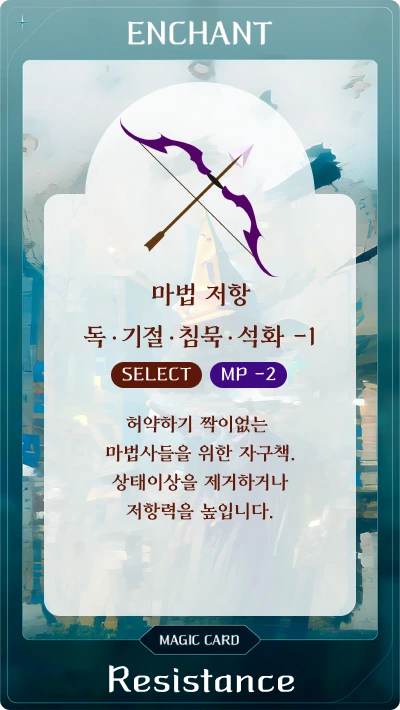
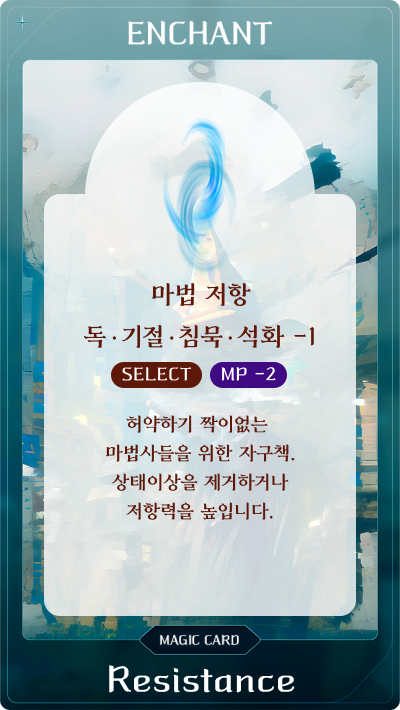
update. 스탯 아이콘 수정(유저 피드백)

diff --git a/src/Components/ingameComponents/PlayerField/MyProfile.tsx b/src/Components/ingameComponents/PlayerField/MyProfile.tsx
@@ -18,6 +18,7 @@ import {
   MyStatIcon,
   StatIcon,
   StatCnt,
+  StatIconBox,
   CoverIcon,
   CoverIconMine,
 } from "../InGameStyled/InGameStyled";
@@ -61,9 +62,13 @@ const MyProfile = () => {
             </div>
             <MyStatBox>
               <div className="profile__stats">
-                <span className="profile__title">HP {thisPlayer.health}</span>
+                {thisPlayer.health > 0 ? (
+                  <span className="profile__title">HP{thisPlayer.health}</span>
+                ) : (
+                  <span className="profile__title">HP 0</span>
+                )}
                 {thisPlayer.health >= 20 ? (
-                  <MyStatBar stat={true} point={21.35}>
+                  <MyStatBar stat={true} point={16.35}>
                     <div className="stat__full">
                       <div className="stat__now"></div>
                     </div>
@@ -71,7 +76,7 @@ const MyProfile = () => {
                 ) : (
                   <MyStatBar
                     stat={true}
-                    point={(thisPlayer.health / 20) * 21.35}
+                    point={(thisPlayer.health / 20) * 16.35}
                   >
                     <div className="stat__full">
                       <div className="stat__now"></div>
@@ -80,7 +85,12 @@ const MyProfile = () => {
                 )}
               </div>
               <div className="profile__stats">
-                <span className="profile__title">MP {thisPlayer.mana}</span>
+                {thisPlayer.mana > 0 ? (
+                  <span className="profile__title">MP{thisPlayer.mana}</span>
+                ) : (
+                  <span className="profile__title">MP 0</span>
+                )}
+
                 {thisPlayer.mana >= 20 ? (
                   <MyStatBar stat={false} point={21.35}>
                     <div className="stat__full">
@@ -104,88 +114,164 @@ const MyProfile = () => {
             {thisPlayer.sleepDuration !== 0 && (
               <MyStatIcon>
                 <StatIcon
+                  value={thisPlayer.sleepDuration}
                   stat="sleepDuration"
-                  size={4.6875}
+                  size={3.6875}
                   mouseOver={mouseOver}
                   onMouseOver={MouseOverFunc}
                   onMouseLeave={MouseLeaveFunc}
                 >
-                  {mouseOver && <CoverIconMine>수면</CoverIconMine>}
+                  {thisPlayer.sleepDuration > 0 ? (
+                    <>{mouseOver && <CoverIconMine>수면</CoverIconMine>}</>
+                  ) : (
+                    <>
+                      {mouseOver && (
+                        <CoverIconMine>
+                          수면
+                          <br />
+                          저항
+                        </CoverIconMine>
+                      )}
+                    </>
+                  )}
                 </StatIcon>
-                <StatCnt size={2.083}>{thisPlayer.sleepDuration}</StatCnt>
+                <StatCnt size={1.083}>
+                  {Math.abs(thisPlayer.sleepDuration)}
+                </StatCnt>
               </MyStatIcon>
             )}
 
             {thisPlayer.mutedDuration !== 0 && (
               <MyStatIcon>
                 <StatIcon
+                  value={thisPlayer.mutedDuration}
                   stat="mutedDuration"
-                  size={4.6875}
+                  size={3.6875}
                   mouseOver={mouseOver}
                   onMouseOver={MouseOverFunc}
                   onMouseLeave={MouseLeaveFunc}
                 >
-                  {mouseOver && <CoverIconMine>침묵</CoverIconMine>}
+                  {thisPlayer.mutedDuration > 0 ? (
+                    <>{mouseOver && <CoverIconMine>침묵</CoverIconMine>}</>
+                  ) : (
+                    <>
+                      {mouseOver && (
+                        <CoverIconMine>
+                          침묵
+                          <br />
+                          저항
+                        </CoverIconMine>
+                      )}
+                    </>
+                  )}
                 </StatIcon>
-                <StatCnt size={2.083}>{thisPlayer.mutedDuration}</StatCnt>
+                <StatCnt size={1.083}>
+                  {Math.abs(thisPlayer.mutedDuration)}
+                </StatCnt>
               </MyStatIcon>
             )}
 
             {thisPlayer.petrifiedDuration !== 0 && (
               <MyStatIcon>
                 <StatIcon
+                  value={thisPlayer.petrifiedDuration}
                   stat="petrifiedDuration"
-                  size={4.6875}
+                  size={3.6875}
                   mouseOver={mouseOver}
                   onMouseOver={MouseOverFunc}
                   onMouseLeave={MouseLeaveFunc}
                 >
-                  {mouseOver && <CoverIconMine>석화</CoverIconMine>}
+                  {thisPlayer.petrifiedDuration > 0 ? (
+                    <>{mouseOver && <CoverIconMine>석화</CoverIconMine>}</>
+                  ) : (
+                    <>
+                      {mouseOver && (
+                        <CoverIconMine>
+                          석화
+                          <br />
+                          저항
+                        </CoverIconMine>
+                      )}
+                    </>
+                  )}
                 </StatIcon>
-                <StatCnt size={2.083}>{thisPlayer.petrifiedDuration}</StatCnt>
+                <StatCnt size={1.083}>
+                  {Math.abs(thisPlayer.petrifiedDuration)}
+                </StatCnt>
               </MyStatIcon>
             )}
 
             {thisPlayer.poisonedDuration !== 0 && (
               <MyStatIcon>
                 <StatIcon
+                  value={thisPlayer.petrifiedDuration}
                   stat="poisonedDuration"
-                  size={4.6875}
+                  size={3.6875}
                   mouseOver={mouseOver}
                   onMouseOver={MouseOverFunc}
                   onMouseLeave={MouseLeaveFunc}
                 >
-                  {mouseOver && <CoverIconMine>독</CoverIconMine>}
+                  {thisPlayer.poisonedDuration > 0 ? (
+                    <>{mouseOver && <CoverIconMine>중독</CoverIconMine>}</>
+                  ) : (
+                    <>
+                      {mouseOver && (
+                        <CoverIconMine>
+                          중독
+                          <br />
+                          저항
+                        </CoverIconMine>
+                      )}
+                    </>
+                  )}
                 </StatIcon>
-                <StatCnt size={2.083}>{thisPlayer.poisonedDuration}</StatCnt>
+                <StatCnt size={1.083}>
+                  {Math.abs(thisPlayer.poisonedDuration)}
+                </StatCnt>
               </MyStatIcon>
             )}
 
             {thisPlayer.stunnedDuration !== 0 && (
               <MyStatIcon>
                 <StatIcon
+                  value={thisPlayer.stunnedDuration}
                   stat="stunnedDuration"
-                  size={4.6875}
+                  size={3.6875}
                   mouseOver={mouseOver}
                   onMouseOver={MouseOverFunc}
                   onMouseLeave={MouseLeaveFunc}
                 >
-                  {mouseOver && <CoverIconMine>기절</CoverIconMine>}
+                  {thisPlayer.stunnedDuration > 0 ? (
+                    <>{mouseOver && <CoverIconMine>기절</CoverIconMine>}</>
+                  ) : (
+                    <>
+                      {mouseOver && (
+                        <CoverIconMine>
+                          기절
+                          <br />
+                          저항
+                        </CoverIconMine>
+                      )}
+                    </>
+                  )}
                 </StatIcon>
-                <StatCnt size={2.083}>{thisPlayer.stunnedDuration}</StatCnt>
+                <StatCnt size={1.083}>
+                  {Math.abs(thisPlayer.stunnedDuration)}
+                </StatCnt>
               </MyStatIcon>
             )}
 
             {thisPlayer.weakDuration !== 0 && (
               <MyStatIcon>
                 <StatIcon
+                  value={thisPlayer.weakDuration}
                   stat="weakDuration"
-                  size={4.6875}
+                  size={3.6875}
                   mouseOver={mouseOver}
                   onMouseOver={MouseOverFunc}
                   onMouseLeave={MouseLeaveFunc}
                 >
-                  {thisPlayer.weakDuration <= 0 ? (
+                  {thisPlayer.weakDuration < 0 ? (
                     <>{mouseOver && <CoverIconMine>방어</CoverIconMine>}</>
                   ) : (
                     <>
@@ -199,15 +285,18 @@ const MyProfile = () => {
                     </>
                   )}
                 </StatIcon>
-                <StatCnt size={2.083}>{thisPlayer.weakDuration}</StatCnt>
+                <StatCnt size={1.083}>
+                  {Math.abs(thisPlayer.weakDuration)}
+                </StatCnt>
               </MyStatIcon>
             )}
 
             {thisPlayer.damageModifierDuration !== 0 && (
               <MyStatIcon>
                 <StatIcon
+                  value={-thisPlayer.damageModifierDuration}
                   stat={"damageModifierDuration"}
-                  size={4.6875}
+                  size={3.6875}
                   mouseOver={mouseOver}
                   onMouseOver={MouseOverFunc}
                   onMouseLeave={MouseLeaveFunc}
@@ -234,15 +323,18 @@ const MyProfile = () => {
                     </>
                   )}
                 </StatIcon>
-                <StatCnt size={2.083}>{thisPlayer.weakDuration}</StatCnt>
+                <StatCnt size={1.083}>
+                  {Math.abs(thisPlayer.damageModifierDuration)}
+                </StatCnt>
               </MyStatIcon>
             )}
 
             {thisPlayer.shield === true && (
               <MyStatIcon>
                 <StatIcon
+                  value={1}
                   stat="shield"
-                  size={4.6875}
+                  size={3.6875}
                   mouseOver={mouseOver}
                   onMouseOver={MouseOverFunc}
                   onMouseLeave={MouseLeaveFunc}

diff --git a/src/Components/ingameComponents/Modals/StartModal.tsx b/src/Components/ingameComponents/Modals/StartModal.tsx
@@ -3,41 +3,53 @@ import { useState, useEffect } from "react";
 
 /* Modules */
 import { StartModalProps } from "../../../typings/typedb";
-import useSound from "use-sound";
 /* Components */
-import { BeerIcons, StartDiv } from "../InGameStyled/InGameStyled";
-import { DefaultBtnL } from "../../Common/CommonStyle";
-import btnSound from "../../../sounds/turn.mp3";
 import Loading from "../../../pages/Loading";
+import { useAppSelector } from "../../../hooks/tsHooks";
+import { setCookie, getCookie } from "../../../Shared/Cookies";
 const StartModal = ({ setStatus }: StartModalProps) => {
-  const [BtnActive, setBtnActive] = useState<boolean>(true);
-  const [play] = useSound(btnSound);
-  // 유저 접속 텀을 고려해서, 5초 뒤에 버튼 활성화
+  // const roomId = useAppSelector((state) => state.game.game.roomTitle);
+  // const reconnectState = useAppSelector((state) => state.game.game.timer);
+  // const checkGame = getCookie("roomId");
+
   useEffect(() => {
     setTimeout(() => {
       setStatus("READY");
-    }, 8000);
+      // setCookie("roomId", roomId, {
+      //   path: "/",
+      //   expire: "after60m",
+      // });
+    }, 6000);
   }, []);
+
+  // useEffect(() => {
+  //   if (checkGame === undefined) {
+  //     setTimeout(() => {
+  //       setStatus("READY");
+  //       setCookie("roomId", roomId, {
+  //         path: "/",
+  //         expire: "after60m",
+  //       });
+  //       alert("시작합니다");
+  //     }, 6000);
+  //     return;
+  //   }
+  //   if (checkGame === roomId && reconnectState === "action") {
+  //     setStatus("TURNCHECK");
+  //     return;
+  //   }
+  //   if (checkGame === roomId && reconnectState === "draw") {
+  //     setStatus("PRECHECK");
+  //   }
+  //   if (checkGame === roomId && reconnectState === "") {
+  //     setStatus("WAITING");
+  //     console.log("아무일도없었다.");
+  //   }
+  // }, []);
 
   return (
     <>
       <Loading></Loading>
-      {/* <DefaultBtnL
-        disabled={BtnActive}
-        onClick={() => {
-          play();
-          setStatus("READY");
-        }}
-      >
-        <span>Start!</span>
-      </DefaultBtnL> */}
-      {/* <BeerIcons></BeerIcons>
-      <StartDiv>
-        <span className="start__notice">선빵필승!</span>
-        <span className="start__notice start__notice--btm">
-          제일 먼저 게임 스타트를 눌러보세요!
-        </span> */}
-      {/* </StartDiv> */}
     </>
   );
 };

diff --git a/src/Components/ingameComponents/PlayerField/PlayerField.tsx b/src/Components/ingameComponents/PlayerField/PlayerField.tsx
@@ -69,7 +69,7 @@ const PlayerField: FunctionComponent<PlayerFieldProps> = ({
 
   useEffect(() => {
     setDisableHeal(false);
-    setHealCnt(true);
+    // setHealCnt(true);
   }, [status]);
 
   /* tookit things */
@@ -208,7 +208,7 @@ const PlayerField: FunctionComponent<PlayerFieldProps> = ({
       onClick={(event: any) => sendHealMsgHandler(event, value)}
       value={value.playerId}
       disabled={clicked}
-      team={value.team === thisPlayer.team}
+      team={value.team}
       onMouseOver={(event: any) => onMouseOverTargeting(event, value)}
       onMouseLeave={onMouseLeaveTargeting}
     >
@@ -230,7 +230,7 @@ const PlayerField: FunctionComponent<PlayerFieldProps> = ({
       onClick={(event: any) => cardUseHandler(event, value)}
       disabled={clicked}
       value={value.playerId}
-      team={value.team === thisPlayer.team}
+      team={value.team}
     >
       {index === 0 && "E1"}
       {index === 1 && "E2"}
@@ -352,10 +352,7 @@ const PlayerField: FunctionComponent<PlayerFieldProps> = ({
                         <span>순서 확인</span>
                         <div className="turn__button--box">
                           {playersList.map((value) => (
-                            <TurnBtn
-                              key={value.turnOrder}
-                              team={value.team === thisPlayer.team}
-                            >
+                            <TurnBtn key={value.turnOrder} team={value.team}>
                               {value.turnOrder}
                             </TurnBtn>
                           ))}
@@ -377,7 +374,7 @@ const PlayerField: FunctionComponent<PlayerFieldProps> = ({
                 <span>순서확인</span>
                 <div className="turn__button--box">
                   {playersList.map((value, index) => (
-                    <TurnBtn key={index} team={value.team === thisPlayer.team}>
+                    <TurnBtn key={index} team={value.team}>
                       {value.turnOrder}
                     </TurnBtn>
                   ))}
